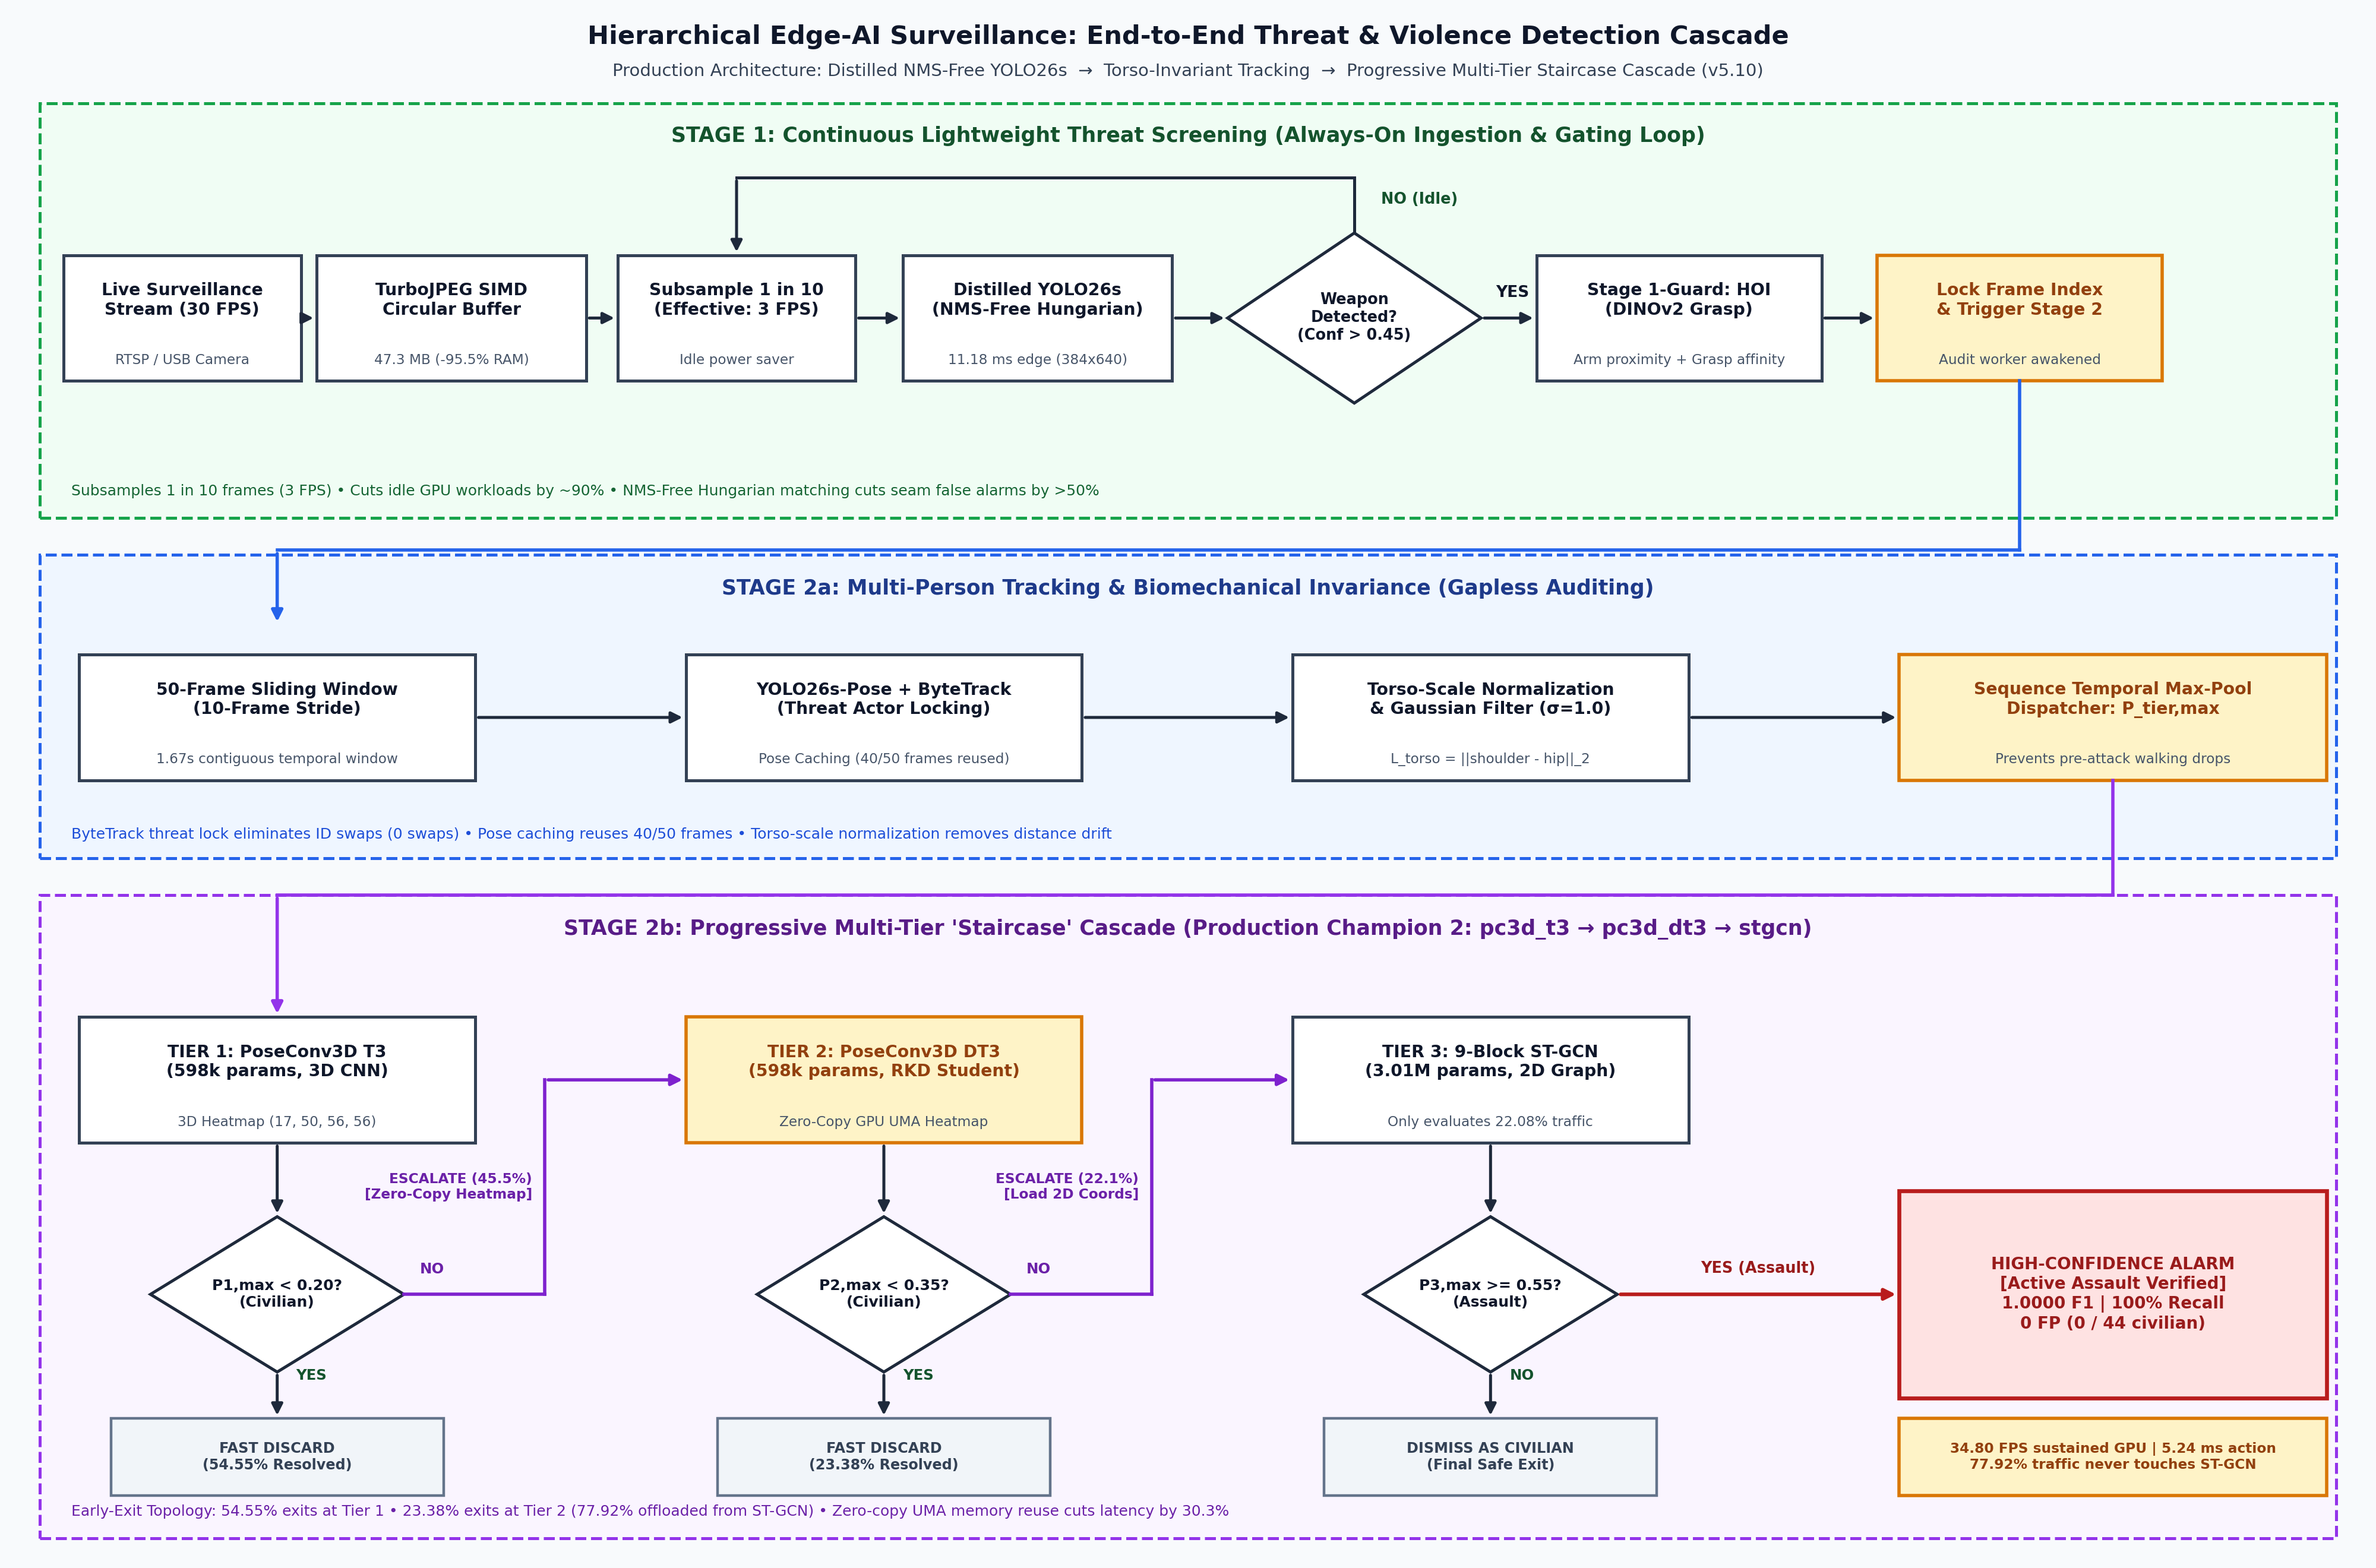
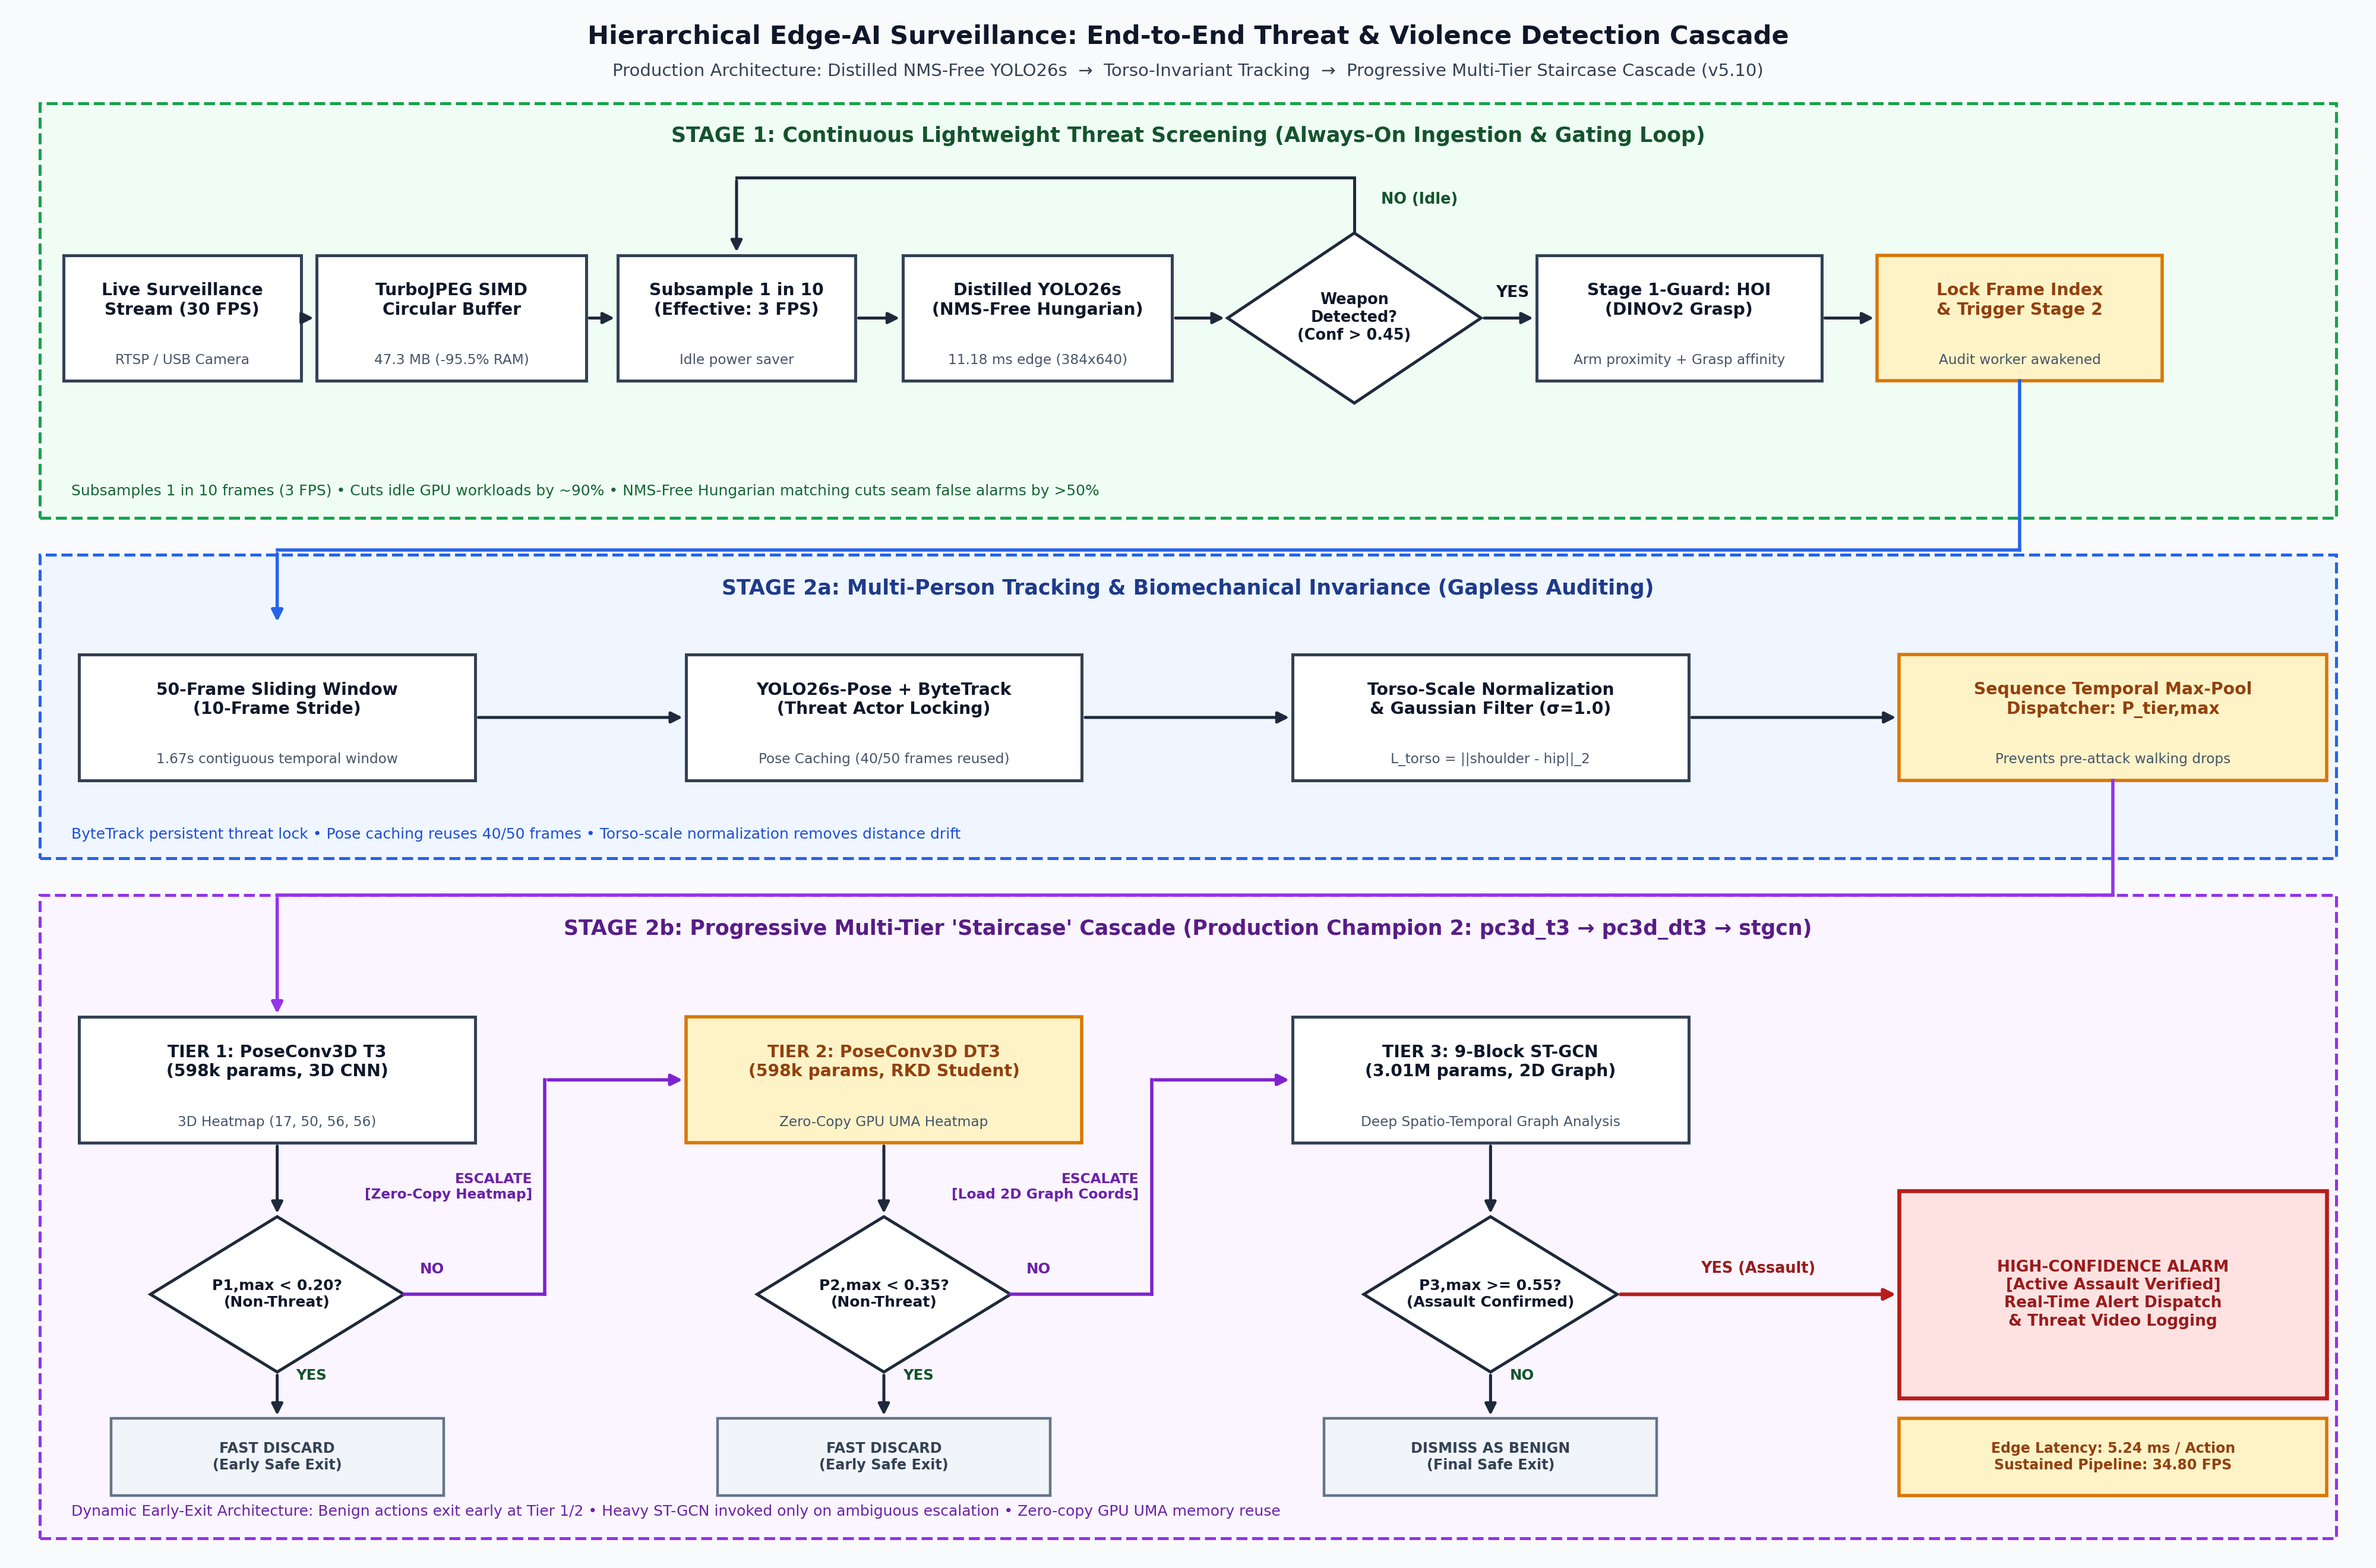
docs(diagram): generalize inference pipeline diagram by removing dataset-specific evaluation metrics

diff --git a/scripts/generate_pipeline_diagram.py b/scripts/generate_pipeline_diagram.py
@@ -170,7 +170,7 @@ def create_pipeline_diagram(output_path='assets/inference_pipeline.png', dpi=200
     ax.add_patch(s2a_rect)
     ax.text(75.0, 66.2, "STAGE 2a: Multi-Person Tracking & Biomechanical Invariance (Gapless Auditing)",
             ha='center', va='center', fontsize=12.5, fontweight='bold', family='sans-serif', color='#1e3a8a', zorder=3)
-    ax.text(4.5, 49.6, "ByteTrack threat lock eliminates ID swaps (0 swaps) • Pose caching reuses 40/50 frames • Torso-scale normalization removes distance drift",
+    ax.text(4.5, 49.6, "ByteTrack persistent threat lock • Pose caching reuses 40/50 frames • Torso-scale normalization removes distance drift",
             ha='left', va='center', fontsize=9.0, family='sans-serif', color='#1d4ed8', zorder=3)
 
     y_s2a = 57.5
@@ -203,7 +203,7 @@ def create_pipeline_diagram(output_path='assets/inference_pipeline.png', dpi=200
     ax.add_patch(s2b_rect)
     ax.text(75.0, 43.2, "STAGE 2b: Progressive Multi-Tier 'Staircase' Cascade (Production Champion 2: pc3d_t3 → pc3d_dt3 → stgcn)",
             ha='center', va='center', fontsize=12.5, fontweight='bold', family='sans-serif', color='#581c87', zorder=3)
-    ax.text(4.5, 3.8, "Early-Exit Topology: 54.55% exits at Tier 1 • 23.38% exits at Tier 2 (77.92% offloaded from ST-GCN) • Zero-copy UMA memory reuse cuts latency by 30.3%",
+    ax.text(4.5, 3.8, "Dynamic Early-Exit Architecture: Benign actions exit early at Tier 1/2 • Heavy ST-GCN invoked only on ambiguous escalation • Zero-copy GPU UMA memory reuse",
             ha='left', va='center', fontsize=9.0, family='sans-serif', color='#6b21a8', zorder=3)
 
     # Four columns: X = 17.5, 55.8, 94.1, 133.4
@@ -222,12 +222,12 @@ def create_pipeline_diagram(output_path='assets/inference_pipeline.png', dpi=200
     draw_box(x_c1, y_box_s2b, 25.0, h_box_s2b, "TIER 1: PoseConv3D T3\n(598k params, 3D CNN)", subtext="3D Heatmap (17, 50, 56, 56)")
     draw_arrow(x_c1, y_box_s2b - h_box_s2b/2, x_c1, y_diamond_s2b + h_diamond_s2b/2)
 
-    draw_diamond(x_c1, y_diamond_s2b, w_diamond_s2b, h_diamond_s2b, "P1,max < 0.20?\n(Civilian)", font_sz=9.0)
+    draw_diamond(x_c1, y_diamond_s2b, w_diamond_s2b, h_diamond_s2b, "P1,max < 0.20?\n(Non-Threat)", font_sz=9.0)
 
     # Discard Down
     draw_arrow(x_c1, y_diamond_s2b - h_diamond_s2b/2, x_c1, y_discard_s2b + h_discard_s2b/2)
     ax.text(x_c1 + 1.2, 13.0, "YES", ha='left', va='center', fontsize=8.8, fontweight='bold', color='#14532d', zorder=4)
-    draw_box(x_c1, y_discard_s2b, 21.0, h_discard_s2b, "FAST DISCARD\n(54.55% Resolved)", box_type='dismiss', font_sz=8.6)
+    draw_box(x_c1, y_discard_s2b, 21.0, h_discard_s2b, "FAST DISCARD\n(Early Safe Exit)", box_type='dismiss', font_sz=8.6)
 
     # Escalation from Tier 1 Diamond (right vertex: x=25.5, y=18.5) to Tier 2 Box (left edge: x=43.3, y=33.0)
     x_t1_d_right = x_c1 + w_diamond_s2b/2      # 25.5
@@ -238,9 +238,9 @@ def create_pipeline_diagram(output_path='assets/inference_pipeline.png', dpi=200
                          (x_mid_12, y_diamond_s2b),
                          (x_mid_12, y_box_s2b),
                          (x_t2_b_left, y_box_s2b)], color='#7e22ce', lw=2.0)
-    
+
     # Escalation Label neatly positioned in the channel
-    ax.text(x_mid_12 - 0.8, (y_diamond_s2b + y_box_s2b)/2, "ESCALATE (45.5%)\n[Zero-Copy Heatmap]",
+    ax.text(x_mid_12 - 0.8, (y_diamond_s2b + y_box_s2b)/2, "ESCALATE\n[Zero-Copy Heatmap]",
             ha='right', va='center', fontsize=8.4, fontweight='bold', color='#6b21a8', linespacing=1.2, zorder=4)
     ax.text(x_t1_d_right + 1.0, y_diamond_s2b + 1.2, "NO",
             ha='left', va='bottom', fontsize=8.8, fontweight='bold', color='#6b21a8', zorder=4)
@@ -252,12 +252,12 @@ def create_pipeline_diagram(output_path='assets/inference_pipeline.png', dpi=200
     draw_box(x_c2, y_box_s2b, 25.0, h_box_s2b, "TIER 2: PoseConv3D DT3\n(598k params, RKD Student)", subtext="Zero-Copy GPU UMA Heatmap", box_type='champ')
     draw_arrow(x_c2, y_box_s2b - h_box_s2b/2, x_c2, y_diamond_s2b + h_diamond_s2b/2)
 
-    draw_diamond(x_c2, y_diamond_s2b, w_diamond_s2b, h_diamond_s2b, "P2,max < 0.35?\n(Civilian)", font_sz=9.0)
+    draw_diamond(x_c2, y_diamond_s2b, w_diamond_s2b, h_diamond_s2b, "P2,max < 0.35?\n(Non-Threat)", font_sz=9.0)
 
     # Discard Down
     draw_arrow(x_c2, y_diamond_s2b - h_diamond_s2b/2, x_c2, y_discard_s2b + h_discard_s2b/2)
     ax.text(x_c2 + 1.2, 13.0, "YES", ha='left', va='center', fontsize=8.8, fontweight='bold', color='#14532d', zorder=4)
-    draw_box(x_c2, y_discard_s2b, 21.0, h_discard_s2b, "FAST DISCARD\n(23.38% Resolved)", box_type='dismiss', font_sz=8.6)
+    draw_box(x_c2, y_discard_s2b, 21.0, h_discard_s2b, "FAST DISCARD\n(Early Safe Exit)", box_type='dismiss', font_sz=8.6)
 
     # Escalation from Tier 2 Diamond (right vertex: x=63.8, y=18.5) to Tier 3 Box (left edge: x=81.6, y=33.0)
     x_t2_d_right = x_c2 + w_diamond_s2b/2      # 63.8
@@ -270,7 +270,7 @@ def create_pipeline_diagram(output_path='assets/inference_pipeline.png', dpi=200
                          (x_t3_b_left, y_box_s2b)], color='#7e22ce', lw=2.0)
 
     # Escalation Label neatly positioned in the channel
-    ax.text(x_mid_23 - 0.8, (y_diamond_s2b + y_box_s2b)/2, "ESCALATE (22.1%)\n[Load 2D Coords]",
+    ax.text(x_mid_23 - 0.8, (y_diamond_s2b + y_box_s2b)/2, "ESCALATE\n[Load 2D Graph Coords]",
             ha='right', va='center', fontsize=8.4, fontweight='bold', color='#6b21a8', linespacing=1.2, zorder=4)
     ax.text(x_t2_d_right + 1.0, y_diamond_s2b + 1.2, "NO",
             ha='left', va='bottom', fontsize=8.8, fontweight='bold', color='#6b21a8', zorder=4)
@@ -279,15 +279,15 @@ def create_pipeline_diagram(output_path='assets/inference_pipeline.png', dpi=200
     # COL 3: TIER 3 (9-Block ST-GCN)
     # -------------------------------------------------------------------------
     x_c3 = 94.1
-    draw_box(x_c3, y_box_s2b, 25.0, h_box_s2b, "TIER 3: 9-Block ST-GCN\n(3.01M params, 2D Graph)", subtext="Only evaluates 22.08% traffic")
+    draw_box(x_c3, y_box_s2b, 25.0, h_box_s2b, "TIER 3: 9-Block ST-GCN\n(3.01M params, 2D Graph)", subtext="Deep Spatio-Temporal Graph Analysis")
     draw_arrow(x_c3, y_box_s2b - h_box_s2b/2, x_c3, y_diamond_s2b + h_diamond_s2b/2)
 
-    draw_diamond(x_c3, y_diamond_s2b, w_diamond_s2b, h_diamond_s2b, "P3,max >= 0.55?\n(Assault)", font_sz=9.0)
+    draw_diamond(x_c3, y_diamond_s2b, w_diamond_s2b, h_diamond_s2b, "P3,max >= 0.55?\n(Assault Confirmed)", font_sz=9.0)
 
     # Dismiss Down
     draw_arrow(x_c3, y_diamond_s2b - h_diamond_s2b/2, x_c3, y_discard_s2b + h_discard_s2b/2)
     ax.text(x_c3 + 1.2, 13.0, "NO", ha='left', va='center', fontsize=8.8, fontweight='bold', color='#14532d', zorder=4)
-    draw_box(x_c3, y_discard_s2b, 21.0, h_discard_s2b, "DISMISS AS CIVILIAN\n(Final Safe Exit)", box_type='dismiss', font_sz=8.6)
+    draw_box(x_c3, y_discard_s2b, 21.0, h_discard_s2b, "DISMISS AS BENIGN\n(Final Safe Exit)", box_type='dismiss', font_sz=8.6)
 
     # -------------------------------------------------------------------------
     # COL 4: HIGH-CONFIDENCE VIOLENCE ALARM
@@ -304,13 +304,13 @@ def create_pipeline_diagram(output_path='assets/inference_pipeline.png', dpi=200
             ha='center', va='bottom', fontsize=9.2, fontweight='bold', color='#991b1b', zorder=4)
 
     draw_box(x_c4, y_diamond_s2b, w_alarm, h_alarm,
-             "HIGH-CONFIDENCE ALARM\n[Active Assault Verified]\n1.0000 F1 | 100% Recall\n0 FP (0 / 44 civilian)",
-             box_type='violence', font_sz=10.0)
+             "HIGH-CONFIDENCE ALARM\n[Active Assault Verified]\nReal-Time Alert Dispatch\n& Threat Video Logging",
+             box_type='violence', font_sz=9.5)
 
     # Performance & Throughput Badge
     draw_box(x_c4, y_discard_s2b, w_alarm, h_discard_s2b,
-             "34.80 FPS sustained GPU | 5.24 ms action\n77.92% traffic never touches ST-GCN",
-             box_type='champ', font_sz=8.4)
+             "Edge Latency: 5.24 ms / Action\nSustained Pipeline: 34.80 FPS",
+             box_type='champ', font_sz=8.5)
 
     os.makedirs(os.path.dirname(output_path), exist_ok=True)
     plt.savefig(output_path, dpi=dpi, facecolor='#ffffff', edgecolor='none')
